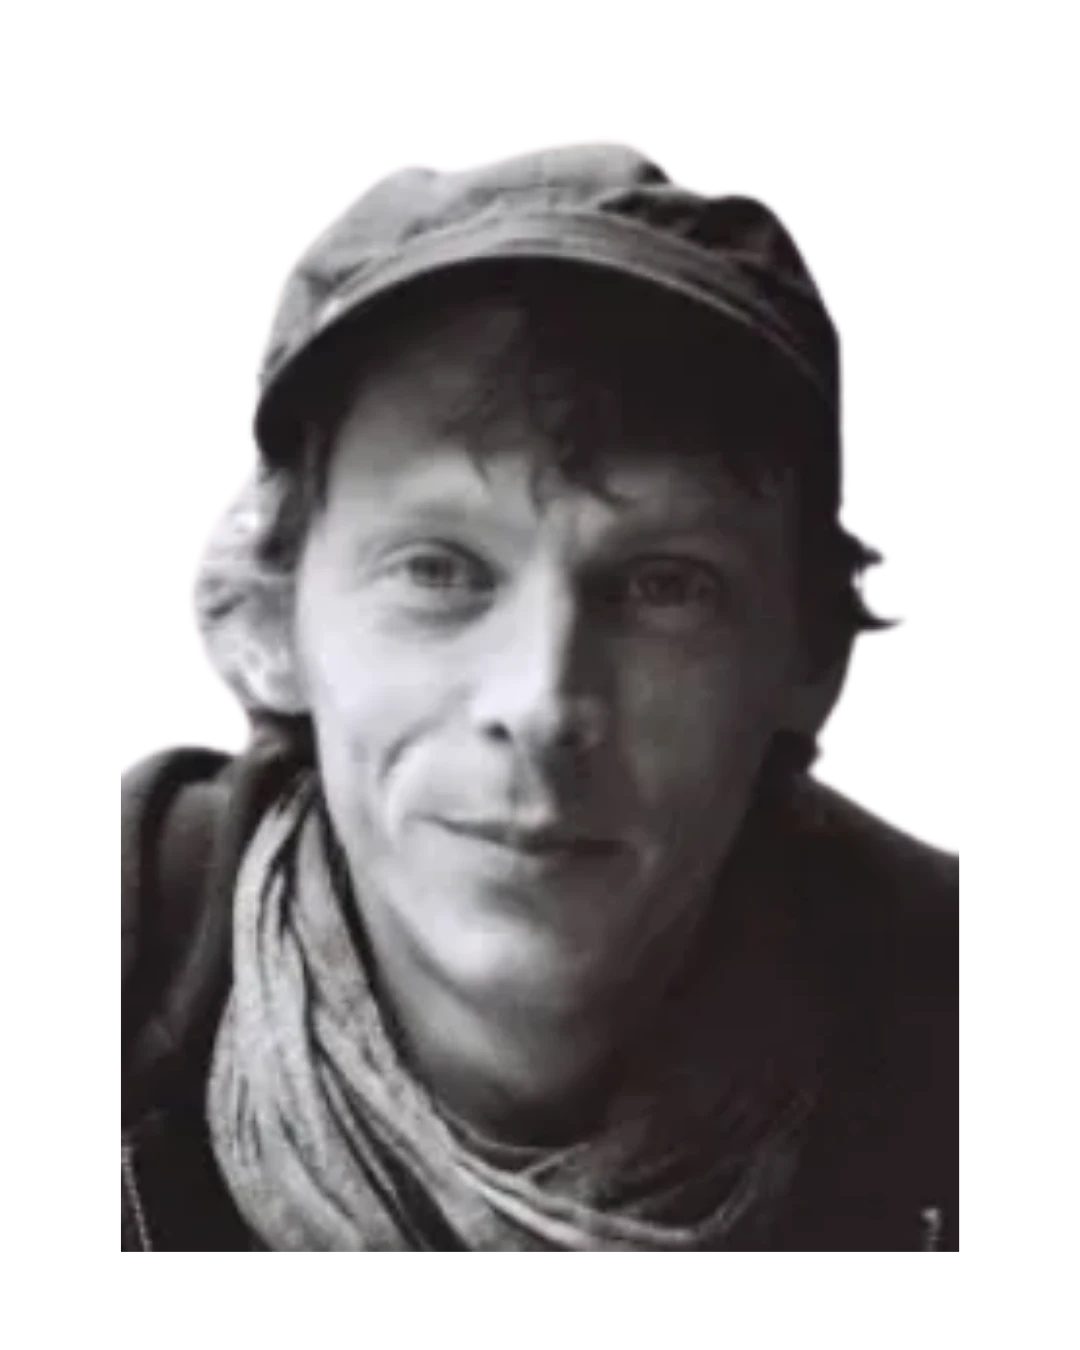
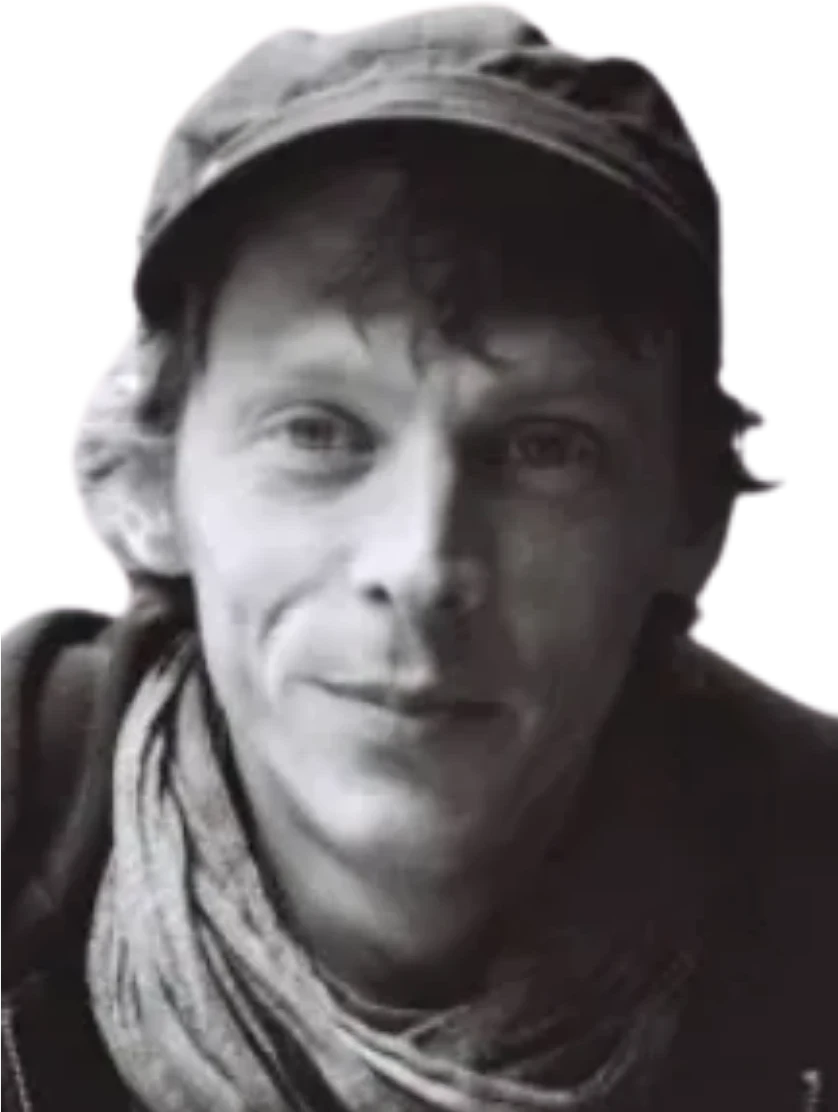
Trim the cutouts to their outline, mirror Shahwan, drop the hover zoom
The newer photos were 1080x1350 frames with the person floating inside a
lot of transparent padding - Kumar had 275px above him and 257px below,
filling only 61% of the frame. That is why he and Islam Nasr sat off the
card's bottom edge and read small next to everyone else: the <img> was
flush, the person inside it was not. The older photos (Sadeq, Jarrar,
Tamimi) have no margin at all, so they always looked right.

Trim all six to their outline to match that convention, and crop Islam
Nasr and Hayat AlTaweel to head and shoulders so their faces read at the
same scale as the rest. Each now draws ~190px wide, flush to the bottom
left, instead of 143px floating.

Talal Shahwan is mirrored to face into the card and runs a little taller;
the rule that cropped into his old photo is gone with its reason.

Hover no longer scales the cutout - the card lifts and the photo's shadow
lengthens instead, so it stands off the card without zooming.

diff --git a/styles.css b/styles.css
@@ -1677,14 +1677,10 @@ body[data-lang="ar"] .abstract-dialog .profile-prev, body[data-lang="en"] .abstr
   text-decoration: underline;
   text-underline-offset: 3px;
 }
-/* Talal Shahwan: his photo has a wide white margin above the head, so he
-   reads small — crop in on the upper body to bring him closer. */
-.participant-card.has-cutout .person-btn .card-figure .cutout[src*="shahwan"] {
-  width: 165px;
-  height: 200px;
-  object-fit: cover;
-  object-position: 50% 8%;
-}
+/* Talal Shahwan: the photo itself is now trimmed to his outline and mirrored,
+   so he faces into the card like the others. He only needs to run a little
+   taller than the default to match their presence. */
+.participant-card.has-cutout .person-btn .card-figure .cutout[src*="shahwan"] { height: 205px; }
 
 /* Download button under the Abstracts and Participants headings
    (same style as the concept-note button) */
@@ -1728,13 +1724,21 @@ body[data-lang="ar"] .abstract-dialog .profile-prev, body[data-lang="en"] .abstr
 /* A little more life on hover: the card lifts a touch further than before and
    the cutout leans in, anchored at its bottom-left so it stays flush with the
    card's edge rather than detaching from it. */
-.participant-card { transition: box-shadow 0.35s ease, transform 0.35s cubic-bezier(0.22, 1, 0.36, 1); }
-.participant-card:hover { box-shadow: 0 14px 32px rgba(30, 27, 23, 0.18); transform: translateY(-6px); }
-.participant-card .cutout {
-  transform-origin: left bottom;
-  transition: transform 0.45s cubic-bezier(0.22, 1, 0.36, 1);
+/* Hover: the whole card lifts and its photo casts a longer shadow, so the
+   cutout reads as standing off the card. The photo itself is never scaled —
+   zooming a cutout on hover looks cheap and breaks its footing on the edge. */
+.participant-card {
+  transition: box-shadow 0.35s ease, transform 0.35s cubic-bezier(0.22, 1, 0.36, 1),
+              border-color 0.35s ease;
 }
-.participant-card:hover .cutout { transform: scale(1.05); }
+.participant-card:hover {
+  transform: translateY(-6px);
+  box-shadow: 0 16px 34px rgba(30, 27, 23, 0.18);
+  border-color: rgba(30, 27, 23, 0.22);
+}
+.participant-card .cutout { transition: filter 0.35s ease; }
+.participant-card:hover .cutout { filter: drop-shadow(10px 8px 16px rgba(30, 27, 23, 0.36)); }
+.participant-card:hover .card-more { text-decoration-thickness: 2px; }
 
 /* The programme rows ripple in each time a day is opened. Unlike the section
    reveal, which fires once per page load, this replays on every open, so the

diff --git a/index.html b/index.html
@@ -10,7 +10,7 @@
   <link rel="preload" href="assets/fonts/cairo-latin.woff2" as="font" type="font/woff2" crossorigin>
   <link rel="preload" href="assets/fonts/tajawal-400-arabic.woff2" as="font" type="font/woff2" crossorigin>
   <link rel="preload" href="assets/fonts/tajawal-400-latin.woff2" as="font" type="font/woff2" crossorigin>
-  <link rel="stylesheet" href="styles.css?v=76">
+  <link rel="stylesheet" href="styles.css?v=77">
 </head>
 <body data-lang="ar">
 

diff --git a/privacy.html b/privacy.html
@@ -6,7 +6,7 @@
   <title>سياسة الخصوصية | Privacy Policy — Muwatin</title>
   <link rel="preload" href="assets/fonts/cairo-arabic.woff2" as="font" type="font/woff2" crossorigin>
   <link rel="preload" href="assets/fonts/tajawal-400-arabic.woff2" as="font" type="font/woff2" crossorigin>
-  <link rel="stylesheet" href="styles.css?v=76">
+  <link rel="stylesheet" href="styles.css?v=77">
 </head>
 <body data-lang="ar" class="legal-page">
 

diff --git a/disclaimer.html b/disclaimer.html
@@ -6,7 +6,7 @@
   <title>إخلاء المسؤولية | Disclaimer — Muwatin</title>
   <link rel="preload" href="assets/fonts/cairo-arabic.woff2" as="font" type="font/woff2" crossorigin>
   <link rel="preload" href="assets/fonts/tajawal-400-arabic.woff2" as="font" type="font/woff2" crossorigin>
-  <link rel="stylesheet" href="styles.css?v=76">
+  <link rel="stylesheet" href="styles.css?v=77">
 </head>
 <body data-lang="ar" class="legal-page">
 
